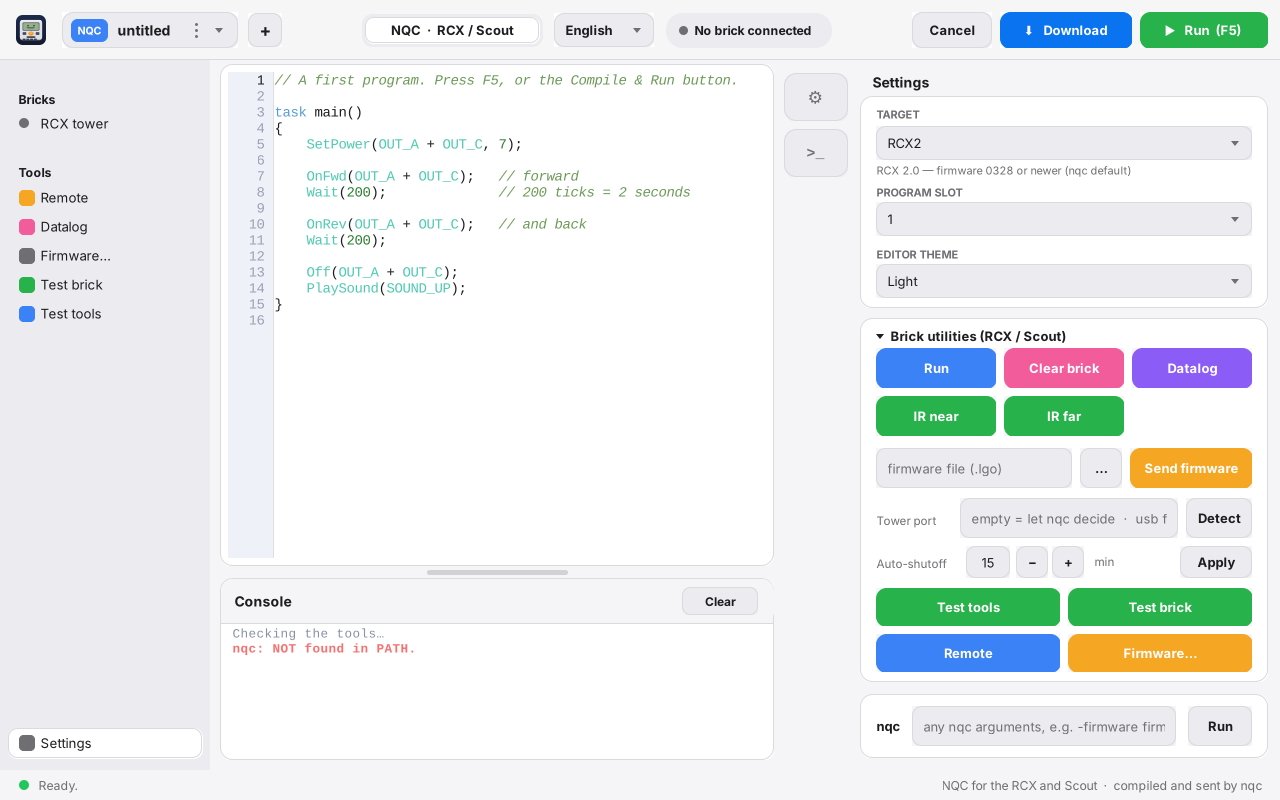
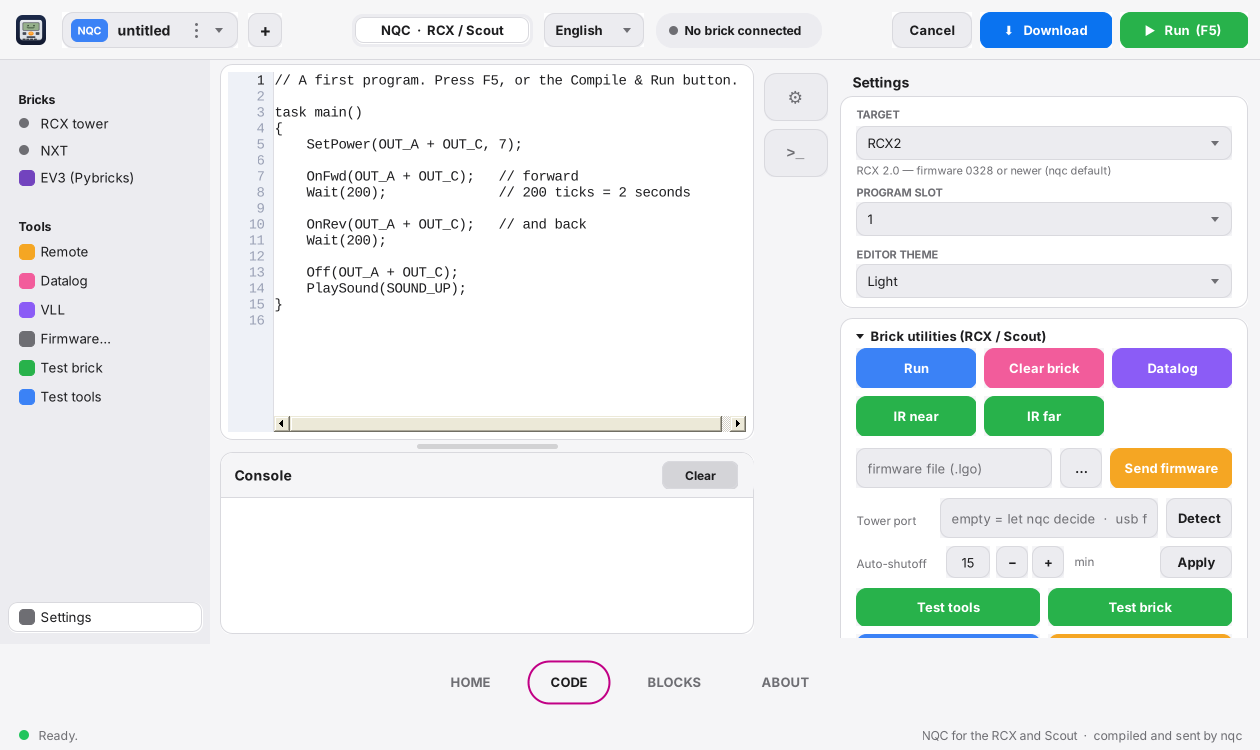
README: drivers per device, troubleshooting, new screenshots, not tested on Windows ARM
Claude-Session: https://claude.ai/code/session_01RGFhntjoSVCNUdNCgVpohL

diff --git a/README.es.md b/README.es.md
@@ -12,7 +12,9 @@ USB y el driver de la torre.
 > Continúa a [rcx-tower-gui](https://github.com/JimBolanos/rcx-tower-gui), la versión
 > anterior de la misma idea.
 
-![BrickCode Studio en Windows](docs/screenshot-nqc-en.png)
+![BrickCode Studio en Windows: elige el ladrillo](docs/screenshot-home-en.png)
+
+![La pantalla de código, escribiendo NQC para el RCX](docs/screenshot-nqc-en.png)
 
 ¿Prefieres arrastrar bloques a escribir? **Archivo → Editor de bloques…** lo abre en
 tu navegador. Escribe el NQC por ti, y en esta edición viene fijado a NQC: el paquete
@@ -20,6 +22,18 @@ trae `nqc` y no `nbc`, así que ofrecer NXC aquí solo serviría para armar prog
 esta app no puede compilar.
 
 ![El editor visual de bloques, escribiendo NQC](docs/screenshot-blocks-en.png)
+
+El botón **BLOQUES** de la barra inferior primero pregunta qué editor quieres:
+
+![El menú BLOQUES](docs/screenshot-blocks-menu-en.png)
+
+---
+
+> **Aún no probado en Windows ARM.** Esta versión se ha usado en Windows 11 sobre un PC
+> x64 normal. No se ha probado en Windows para ARM (portátiles Snapdragon, Surface
+> Pro X y similares). Puede que funcione con la emulación x64 de Windows, pero la DLL
+> de libusb y los drivers USB de abajo (libusbK, WinUSB) son lo más probable que
+> falle ahí. Si lo pruebas, cuéntanos cómo te fue.
 
 ---
 
@@ -99,12 +113,6 @@ La salida, la que encontró [beckmx](https://github.com/beckmx/lego-tower-rcx), 
 asignarle a la torre el driver **libusbK** con Zadig y hablarle desde Python. Por eso
 en esta versión:
 
-- **Editor visual de bloques** (**Archivo → Editor de bloques…**): arrastra bloques
-  en lugar de escribir. Es un solo archivo HTML, sin internet, que vive junto al exe,
-  se abre en tu navegador y viene fijado a NQC, porque esta edición trae `nqc` y no
-  `nbc`. Guardas ahí, abres el `.nqc` aquí. Los programas llevan sus bloques dentro,
-  así que puedes volver a abrirlos y seguir armando.
-
 - **nqc.exe compila** — esa parte está intacta y funciona perfecto.
 - **`rcx_tool.py` lleva el programa al ladrillo** a través de libusbK.
 
@@ -114,10 +122,58 @@ incluido, así que no hay que hacer `pip install`.
 **Con torre serial nada de esto aplica.** Escribe el puerto (`COM1`, por ejemplo) en
 **Puerto de la torre** dentro de Ajustes y la app usa `nqc` para todo, directamente.
 
+## Drivers: cuál, para qué ladrillo
+
+Solo dos cosas de esta página necesitan driver, y necesitan drivers **distintos**.
+Confundirlos es la forma habitual de que algo salga mal.
+
+| Dispositivo | ID USB | Driver que necesita | Qué hacer |
+|---|---|---|---|
+| **Torre USB del RCX / Scout** | `0694:0001` | **libusbK** | Corre Zadig una vez, solo sobre la torre (pasos en [`driver/LEEME-driver.txt`](package/BrickCodeStudio/driver/LEEME-driver.txt)). |
+| **NXT** | `0694:0002` | **WinUSB** (o cualquiera compatible con libusb) | Normalmente **nada**: si NXT-G, NXT-Scratch, BricxCC o el software de LEGO ya funcionan en el PC, el NXT ya tiene lo que necesita. Déjalo tal cual. |
+| **EV3** | — | ninguno | Se programa desde el navegador (Pybricks); esta app nunca le habla por USB. |
+| **Torre serial** | — | ninguno | Escribe su puerto `COM` en **Puerto de la torre** dentro de Ajustes. |
+
+Reglas para que Zadig no haga daño:
+
+1. **Conecta el dispositivo primero, abre Zadig después.** Zadig solo lista lo que está conectado.
+2. **Ejecuta Zadig como administrador** y marca **Options → List All Devices**.
+3. **Mira el ID USB antes de pulsar Install.** Para la torre debe decir `0694 0001`.
+   Si dice otra cosa, vas a reemplazar el driver de otro dispositivo. Cierra Zadig.
+4. **Un dispositivo a la vez.** Nunca pongas "Replace Driver" al NXT si también usas
+   NXT-G o NXT-Scratch: necesitan el driver que el NXT ya tiene, y cambiarlo puede
+   romperlos. Esta app no te lo pide.
+5. Cuando Zadig diga *instalado correctamente*, **desconecta la torre y vuelve a
+   conectarla** (en el mismo puerto) antes de probar.
+
+### Si algo falla
+
+| Lo que ves | Por qué | Solución |
+|---|---|---|
+| **Detectar** no encuentra la torre | Se conectó después de abrir la app, o Windows no terminó de cargar el driver | Conéctala, espera unos segundos y pulsa **Detectar** otra vez. Si sigue sin salir: desconecta, vuelve a conectar en el mismo puerto y **Detectar**. |
+| Zadig no lista la torre | **List All Devices** está apagado, o la torre no está conectada | Márcalo; desconecta y reconecta la torre. |
+| Probar ladrillo dice que no puede abrir la torre | La torre aún no tiene libusbK | Repite los pasos de Zadig; confirma `0694 0001` y **libusbK**. |
+| NXT: **`Operation not supported or implemented on this platform`** | Windows dejó el USB del NXT en un estado viejo, a menudo por conectarlo mientras otro programa lo tenía abierto | **Desconecta el NXT y vuelve a conectarlo en el mismo puerto**, espera unos segundos y pulsa el botón otra vez. El driver no tiene nada malo. |
+| El NXT funciona una vez y luego no responde | **Explorador NXT** o **Pantalla NXT** siguen abiertos y retienen el USB | Cierra esas ventanas y prueba de nuevo. Solo una cosa puede hablar con el NXT a la vez. |
+| El NXT no aparece | BricxCC, NXT-G o NXT-Scratch lo tienen abierto | Ciérralos. En el Administrador de dispositivos comprueba que no esté en *Otros dispositivos* con una marca amarilla: eso significa que no tiene driver, y solo entonces la respuesta es Zadig (WinUSB). |
+| **Probar herramientas** dice `python: NO se encontró` | Falta Python 3 | Instálalo desde la Microsoft Store. |
+| **Probar herramientas** dice que falta `libusb-1.0.dll` o `pyusb` | El exe se movió fuera de su carpeta | Ábrelo desde dentro de `package\BrickCodeStudio`, con los archivos a su lado. |
+| Zadig dijo *instalado* pero nada cambió | El dispositivo no se re-enumeró | Desconéctalo y vuelve a conectarlo; como último recurso, reinicia Windows. |
+| Quieres devolver la torre a como estaba | | Administrador de dispositivos → desinstalar el dispositivo con **Eliminar el software de controlador** marcado → reconectar. BricxCC y `nqc -Susb` la volverán a ver, y esta app volverá a necesitar Zadig. |
+
+Un buen orden cuando algo raro pasa: cierra los otros programas de LEGO → desconecta →
+espera cinco segundos → conecta (mismo puerto) → pulsa **Probar herramientas** y luego
+**Probar ladrillo**.
+
 ## La ventana
 
+**Barra inferior** — **INICIO**, **CÓDIGO**, **BLOQUES** y **ACERCA DE**. INICIO es
+donde eliges el ladrillo (RCX, Scout, NXT o EV3). BLOQUES abre un menú pequeño para
+elegir el editor de bloques: RCX / Scout (NQC), NXT (NXC) o EV3 (Pybricks). Las demás
+partes de abajo pertenecen a CÓDIGO.
+
 **Barra superior** — la ficha del archivo (haz clic para Nuevo / Abrir / Guardar /
-Guardar como / Acerca de), `+` para un programa nuevo, el modo `NQC · RCX / Scout`,
+Guardar como / los editores de bloques / Inicio / Acerca de), `+` para un programa nuevo, el modo `NQC · RCX / Scout`,
 el idioma, el estado del ladrillo, y **Cancelar**, **Descargar** y **Ejecutar (F5)**.
 
 **Barra lateral** — la torre RCX con su punto de estado, y las herramientas: Control
@@ -132,6 +188,11 @@ línea queda marcada y el editor se desplaza hasta ella.
 **Panel de ajustes** — modelo (`-T`), ranura de programa (`-pgm`), tema del editor,
 las utilidades del ladrillo, el puerto de la torre, el apagado automático, y una caja
 de argumentos libres para `nqc` con historial con las flechas arriba/abajo.
+
+Con el NXT elegido, el editor escribe NXC y la barra lateral y el panel cambian a las
+herramientas del NXT (Probar ladrillo, Detener programa, Explorador NXT, Pantalla NXT):
+
+![Modo NXT](docs/screenshot-nxt-en.png)
 
 | Claro | Oscuro |
 |---|---|

diff --git a/README.md b/README.md
@@ -12,13 +12,27 @@ needs: both compilers, the RCX firmware files, the USB libraries and the tower d
 > Continues from [rcx-tower-gui](https://github.com/JimBolanos/rcx-tower-gui), the
 > earlier version of the same idea.
 
-![BrickCode Studio on Windows](docs/screenshot-nqc-en.png)
+![BrickCode Studio on Windows: pick the brick](docs/screenshot-home-en.png)
+
+![The code screen, writing NQC for the RCX](docs/screenshot-nqc-en.png)
 
 Prefer dragging blocks to typing? **File → Block editor…** opens it in your
 browser. It writes NQC for the RCX and Scout, or NXC when the brick is set to NXT.
 **File → Pybricks block editor (EV3)…** writes Python for the EV3.
 
 ![The visual block editor, writing NQC](docs/screenshot-blocks-en.png)
+
+The **BLOCKS** button in the bottom bar asks which editor you want first:
+
+![The BLOCKS menu](docs/screenshot-blocks-menu-en.png)
+
+---
+
+> **Not tested yet on Windows ARM.** This build has been run on Windows 11 on an
+> ordinary x64 PC. It has not been tried on Windows on ARM (Snapdragon laptops,
+> Surface Pro X and the like). It may run through Windows' x64 emulation, but the
+> libusb DLL and the USB drivers below (libusbK, WinUSB) are the likeliest places for
+> it to go wrong there. If you try it, please tell us how it went.
 
 ---
 
@@ -98,11 +112,6 @@ The way round it, the one
 [beckmx](https://github.com/beckmx/lego-tower-rcx) worked out, is to bind the
 tower to **libusbK** with Zadig and talk to it from Python. So in this build:
 
-- **Visual block editor** (**File → Block editor…**): drag blocks instead of typing.
-  It is one offline HTML file beside the exe, opened in your browser and pinned to
-  NQC, since this edition carries `nqc` and not `nbc`. Save there, open the `.nqc`
-  here. Programs keep their blocks inside, so you can open them again and keep building.
-
 - **nqc.exe compiles** — that part is untouched and works perfectly.
 - **`rcx_tool.py` carries the program to the brick** over libusbK.
 
@@ -112,10 +121,58 @@ there is no `pip install` step.
 **With a serial tower none of this applies.** Type the port (`COM1`, say) into
 **Tower port** under Settings and the app uses `nqc` for everything, directly.
 
+## Drivers: which one, for which brick
+
+Only two things on this page need a driver, and they need **different** ones. Mixing
+them up is the usual way this goes wrong.
+
+| Device | USB ID | Driver it needs | What to do |
+|---|---|---|---|
+| **RCX / Scout USB tower** | `0694:0001` | **libusbK** | Run Zadig once, on the tower only (steps in [`driver/README-driver.txt`](package/BrickCodeStudio/driver/README-driver.txt)). |
+| **NXT** | `0694:0002` | **WinUSB** (or any libusb-compatible one) | Usually **nothing**: if NXT-G, NXT-Scratch, BricxCC or the LEGO software already works on the PC, the NXT already has what it needs. Leave it alone. |
+| **EV3** | — | none | It is programmed through the browser (Pybricks); this app never talks to it over USB. |
+| **Serial tower** | — | none | Type its `COM` port into **Tower port** under Settings. |
+
+Rules that keep Zadig from hurting:
+
+1. **Plug the device in first, run Zadig second.** Zadig only lists what is connected.
+2. **Run Zadig as administrator**, and tick **Options → List All Devices**.
+3. **Check the USB ID before pressing Install.** It must read `0694 0001` for the tower.
+   If it reads anything else, you are about to replace the driver of some other
+   device. Close Zadig.
+4. **One device at a time.** Never "Replace Driver" on the NXT if you also use NXT-G
+   or NXT-Scratch: they need the driver the NXT already has, and swapping it can
+   break them. This app does not ask you to.
+5. After Zadig says *installed successfully*, **unplug the tower and plug it in again**
+   (same port) before testing.
+
+### If something fails
+
+| What you see | Why | Fix |
+|---|---|---|
+| **Detect** finds no tower | The tower was plugged in after the app started, or Windows had not finished loading the driver | Plug it in, wait a few seconds, press **Detect** again. If it still does not show: unplug, replug in the same port, **Detect**. |
+| Zadig does not list the tower | **List All Devices** is off, or the tower is not connected | Tick it; unplug and replug the tower. |
+| Test brick says it cannot open the tower | The tower still has no libusbK | Repeat the Zadig steps; confirm `0694 0001` and **libusbK**. |
+| NXT: **`Operation not supported or implemented on this platform`** | Windows left the NXT's USB in a stale state, often after it was plugged in while another program held it | **Unplug the NXT and plug it back into the same port**, wait a few seconds, press the button again. Nothing is wrong with the driver. |
+| NXT works once, then stops answering | **NXT Explorer** or **NXT Screen** is still open and holds the USB | Close those windows; then try again. Only one thing can talk to the NXT at a time. |
+| NXT is not found at all | BricxCC, NXT-G or NXT-Scratch has it open | Close them. Check in Device Manager that it is not under *Other devices* with a yellow mark: that means it has no driver, and only then is Zadig (WinUSB) the answer. |
+| **Test tools** says `python: NOT found` | Python 3 is missing | Install it from the Microsoft Store. |
+| **Test tools** says `libusb-1.0.dll` or `pyusb` missing | The exe was moved out of its folder | Run it from inside `package\BrickCodeStudio`, with the files beside it. |
+| Zadig said *installed* but nothing changed | The device was not re-enumerated | Unplug and replug it; as a last resort, restart Windows. |
+| You want the tower back as it was | | Device Manager → uninstall the device with **Delete the driver software** ticked → replug. BricxCC and `nqc -Susb` will then see it again, and this app will need Zadig again. |
+
+A good order when anything is odd: close other LEGO programs → unplug → wait five
+seconds → plug in (same port) → press **Test tools**, then **Test brick**.
+
 ## The window
 
-**Top bar** — the file chip (click it for New / Open / Save / Save as / About),
-`+` for a new program, the `NQC · RCX / Scout` mode, the language, the brick status,
+**Bottom bar** — **HOME**, **CODE**, **BLOCKS** and **ABOUT**. HOME is where you pick
+the brick (RCX, Scout, NXT or EV3). BLOCKS opens a small menu asking which block
+editor you want: RCX / Scout (NQC), NXT (NXC) or EV3 (Pybricks). The other three
+parts below belong to CODE.
+
+**Top bar** — the file chip (click it for New / Open / Save / Save as / the block
+editors / Home / About), `+` for a new program, the `NQC · RCX / Scout` mode, the language, the brick status,
 and **Cancel**, **Download** and **Run (F5)**.
 
 **Left sidebar** — the RCX tower with its status dot, and the tools: Remote, Datalog,
@@ -129,6 +186,11 @@ is marked and scrolled into view.
 **Settings panel** — target (`-T`), program slot (`-pgm`), editor theme, the brick
 utilities, the tower port, auto-shutoff, and a free `nqc` argument box with
 up/down history.
+
+With the NXT picked, the editor writes NXC and the sidebar and panel switch to the NXT
+tools (Test brick, Stop program, NXT Explorer, NXT Screen):
+
+![NXT mode](docs/screenshot-nxt-en.png)
 
 | Light | Dark |
 |---|---|

diff --git a/CHANGELOG.md b/CHANGELOG.md
@@ -6,6 +6,10 @@ RCX Tower GUI. They are kept here for the record.
 
 ## Unreleased — NXT and EV3
 
+- **README brought up to date.** New screenshots of the current interface (home, code,
+  NXT mode, the BLOCKS menu, About), a section on which driver each device needs (libusbK
+  for the RCX tower, WinUSB for the NXT, none for the EV3), a table of what to do when
+  detection or the USB fails, and a note that it is not tested on Windows ARM yet.
 - **Menus as bubbles.** The BLOCKS menu in the bottom bar and the File menu now follow the
   Mac / Linux style: a dark rounded card with a thin border and rounded rows that light up
   softly on hover. The BLOCKS bubble opens centred above its button.
